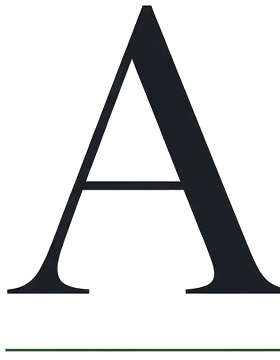
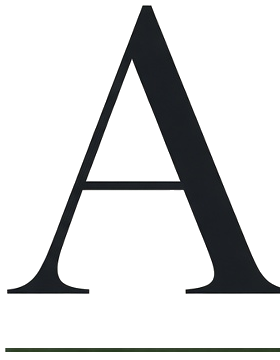
design: refine the OG serif A scale and rule weight.

Changed region(s): [[0.0286, 0.9472, 1.0, 0.9778]]

diff --git a/src/styles/global.css b/src/styles/global.css
@@ -93,8 +93,9 @@ a:hover { color: var(--accent); }
 .hero-serif-a {
   flex: none;
   display: block;
-  width: clamp(92px, 15vw, 168px);
+  width: clamp(86px, 13.8vw, 154px);
   height: auto;
+  transform: translateY(-8px);
 }
 .hero-copy { min-width: 0; flex: 1; }
 .eyebrow { margin: 0; color: var(--accent); font-size: 11px; font-weight: 700; letter-spacing: .16em; line-height: 1.4; text-transform: uppercase; }
@@ -378,7 +379,7 @@ html:lang(ko) .newsletter-cta h2 { font-size: clamp(22.4px, 3.2vw, 33.6px); }
   .mobile-navigation nav > ul > li > a { display: block; padding: 10px 0; }
   .hero { padding-top: 62px; }
   .hero-brand { gap: 20px; }
-  .hero-serif-a { width: clamp(72px, 22vw, 108px); }
+  .hero-serif-a { width: clamp(68px, 20vw, 100px); transform: translateY(-4px); }
   .hero-wordmark { margin-top: 18px; margin-bottom: 22px; font-size: clamp(36px, 9vw, 48px); }
   .hero-intro { max-width: none; font-size: clamp(20px, 4.4vw, 24px); }
   .category-grid { padding-top: 45px; }
